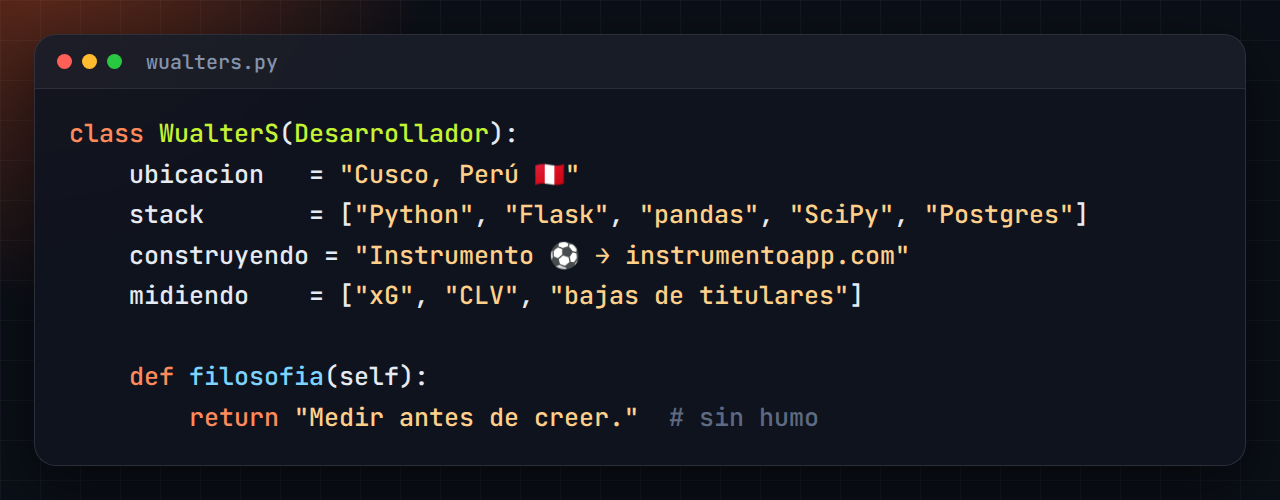
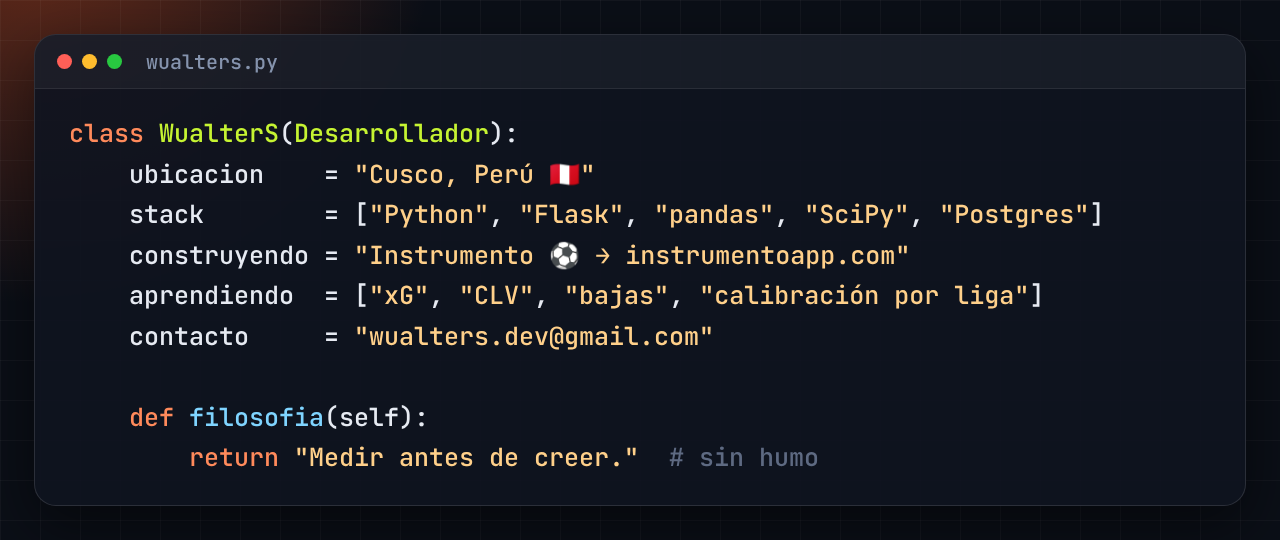
Perfil: auto-mejora, rutina diaria de la app, contacto y números al día (#8)
* Perfil: auto-mejora, rutina diaria de la app, contacto y números al día

El perfil decía que el xG, el CLV y las bajas se estaban midiendo, pero
ya los aplica la auto-mejora semanal; faltaba una forma de contacto y el
botón final llevaba al mismo perfil. Se suma la sección «Lo que la app
hace sola cada día», la vuelta de la auto-mejora en el diagrama, el
correo de desarrollador y los números actuales (~770 pruebas, ~31 000
líneas de Python). Banner y tarjeta de código regenerados con img/generar.py.

Claude-Session: https://claude.ai/code/session_01LgRPHN13sL2dVtw1KBWnaM

* Perfil: 28 competiciones activas, como muestra Panel → Ligas

Claude-Session: https://claude.ai/code/session_01LgRPHN13sL2dVtw1KBWnaM

---------

diff --git a/img/generar.py b/img/generar.py
@@ -25,6 +25,7 @@ FRASES = [
     "⚽ Modelos estadísticos de fútbol",
     "🐍 Python + Flask en producción",
     "📊 Datos que se validan contra el mercado",
+    "🔁 Un modelo que se mejora solo",
     "🤖 Automatización y bots",
 ]
 
@@ -75,10 +76,11 @@ CODIGO = """<div class=g1 style="left:-420px;top:-560px"></div><div class=grid><
   </div>
   <pre style="font-family:Mono;font-size:25px;line-height:1.62;padding:24px 34px;color:#E6EAF2">\
 <b class=k>class</b> <b class=c>WualterS</b>(<b class=c>Desarrollador</b>):
-    <i class=a>ubicacion</i>   = <s>"Cusco, Perú 🇵🇪"</s>
-    <i class=a>stack</i>       = [<s>"Python"</s>, <s>"Flask"</s>, <s>"pandas"</s>, <s>"SciPy"</s>, <s>"Postgres"</s>]
+    <i class=a>ubicacion</i>    = <s>"Cusco, Perú 🇵🇪"</s>
+    <i class=a>stack</i>        = [<s>"Python"</s>, <s>"Flask"</s>, <s>"pandas"</s>, <s>"SciPy"</s>, <s>"Postgres"</s>]
     <i class=a>construyendo</i> = <s>"Instrumento ⚽ → instrumentoapp.com"</s>
-    <i class=a>midiendo</i>    = [<s>"xG"</s>, <s>"CLV"</s>, <s>"bajas de titulares"</s>]
+    <i class=a>aprendiendo</i>  = [<s>"xG"</s>, <s>"CLV"</s>, <s>"bajas"</s>, <s>"calibración por liga"</s>]
+    <i class=a>contacto</i>     = <s>"wualters.dev@gmail.com"</s>
 
     <b class=k>def</b> <b class=f>filosofia</b>(<i class=a>self</i>):
         <b class=k>return</b> <s>"Medir antes de creer."</s>  <u># sin humo</u></pre>
@@ -142,7 +144,7 @@ def main():
     with sync_playwright() as p:
         b = p.chromium.launch()
         banner(b, css)
-        for nombre, cuerpo, ancho, alto in (("codigo", CODIGO, 1280, 500), ("umapyoi", UMAPYOI, 1600, 420)):
+        for nombre, cuerpo, ancho, alto in (("codigo", CODIGO, 1280, 540), ("umapyoi", UMAPYOI, 1600, 420)):
             pg = _pagina(b, css, cuerpo, ancho, alto)
             pg.screenshot(path=str(IMG / f"{nombre}.png"))
             pg.close()

diff --git a/README.md b/README.md
@@ -9,6 +9,7 @@
 <p align="center">
   <a href="#-proyectos"><img src="https://img.shields.io/badge/Proyectos-FF5A1F?style=for-the-badge&labelColor=0F1420" alt="Proyectos"/></a>
   <a href="#-stack"><img src="https://img.shields.io/badge/Stack-8593AD?style=for-the-badge&labelColor=0F1420" alt="Stack"/></a>
+  <a href="#-contacto"><img src="https://img.shields.io/badge/Contacto-C6F432?style=for-the-badge&labelColor=0F1420" alt="Contacto"/></a>
   <a href="#-english"><img src="https://img.shields.io/badge/🇺🇸_English-4CAF50?style=for-the-badge&labelColor=0F1420" alt="English"/></a>
 </p>
 
@@ -20,7 +21,7 @@
 - 📐 Me interesa el **modelado estadístico aplicado**: Dixon-Coles, Binomial Negativa, cópulas, calibración y backtesting.
 - 🚀 Me gusta llevar las cosas **a producción**: despliegue en Render, base en Postgres, CI con GitHub Actions y pruebas de interfaz con Playwright.
 - 🤖 Empecé automatizando tareas repetitivas con **visión por computadora y OCR** (ver Umapyoi AutoReroll).
-- 🔭 Ahora mismo: midiendo con datos reales si el xG, el CLV y las bajas de titulares mejoran los pronósticos.
+- 🔁 Ahora mismo: un modelo que **se mejora solo cada semana** y aplica un cambio únicamente si gana contra el actual con partidos ya jugados.
 - 🎮 Fuera del código: videojuegos y mucha música.
 
 <img src="img/codigo.png" alt="class WualterS(Desarrollador)" width="100%"/>
@@ -60,18 +61,19 @@
 |---|---|
 | 📈 **Modelos** | Dixon-Coles para goles (con altitud, lesiones y descanso) · Binomial Negativa para 28 estadísticas (córners, tarjetas, tiros…) · cópula gaussiana para combinadas |
 | ✅ **Validación** | Backtest contra el mercado, calibración y control de falsos descubrimientos (FDR): cada mercado lleva su sello — *ok*, *ajustado* o *ruido* |
-| 🗂 **Datos** | Ingesta automática de 16 ligas + copas, planteles y mercados de jugador con incertidumbre de minutos |
-| 🧠 **Contra el mercado** | Aprende del xG (goles esperados), mide el CLV de cada pick contra la cuota de cierre y si las bajas de titulares pesan más de lo que el modelo ya espera |
+| 🗂 **Datos** | Ingesta automática de 28 competiciones (ligas de 9 países, copas y selecciones), planteles y mercados de jugador con incertidumbre de minutos |
+| 🧠 **Contra el mercado** | Aprende del xG (goles esperados), mide el CLV de cada pick contra la cuota de cierre, calibra el 1X2 por liga y descuenta las bajas de titulares |
+| 🔁 **Auto-mejora** | Cada semana prueba 7 ajustes del modelo contra partidos pasados (walk-forward) y aplica solo los que ganan claro; los picks de una liga que fallan se apagan solos |
 | 📱 **Producto** | PWA instalable, picks del día, en vivo con gráfico de presión, combinadas, «¿Cuánto meter?» con el bank del usuario (Kelly fraccionado), registro con yield y calibración, notificaciones push propias (Web Push + VAPID) y referidos |
 | 💳 **Negocio** | Plan gratis / Pro controlado en el servidor, cobro por Yape o Plin y Libro de Reclamaciones virtual |
-| 🛡 **Calidad** | ~600 pruebas (pytest + Playwright con pantallas reales) en cada PR, ruff, arquitectura por capas vigilada por una prueba, hilos de fondo con semáforo de salud y avisos por Telegram |
+| 🛡 **Calidad** | ~770 pruebas (pytest + Playwright con pantallas reales) en cada PR, ruff, arquitectura por capas vigilada por una prueba, hilos de fondo con semáforo de salud y avisos por Telegram |
 
 <img src="img/pantallas.png" alt="Pantallas: Hoy, Partidos, Análisis, En vivo, Combinar y Registro" width="100%"/>
 
 <table>
   <tr>
-    <td align="center" width="25%"><h3>~600</h3><sub>pruebas automáticas en cada cambio</sub></td>
-    <td align="center" width="25%"><h3>16 + copas</h3><sub>ligas con datos propios</sub></td>
+    <td align="center" width="25%"><h3>~770</h3><sub>pruebas automáticas en cada cambio</sub></td>
+    <td align="center" width="25%"><h3>28</h3><sub>ligas, copas y selecciones con datos propios</sub></td>
     <td align="center" width="25%"><h3>28</h3><sub>estadísticas por partido modeladas</sub></td>
     <td align="center" width="25%"><h3>100%</h3><sub>de los picks guardados antes del partido</sub></td>
   </tr>
@@ -93,15 +95,37 @@ flowchart LR
     F --> G[Backtest y<br>calibración]
     G --> H[Pick guardado<br>ANTES del partido]
     H --> I["/aciertos y CLV<br>contra el cierre"]
+    I -. cada semana .-> J{{Auto-mejora<br>¿gana el cambio?}}
+    J -. sí .-> C
 ```
 
 - Todo sale de una sola matriz de marcadores: quién gana, goles y ambos marcan nunca se contradicen.
 - Walk-forward: entrena con el pasado, predice lo siguiente y avanza; un mercado que no supera el control de falsos descubrimientos se marca como *ruido*.
 - El historial público no se recalcula: lo que se ve es lo que el modelo dijo antes de cada partido.
+- La auto-mejora solo cambia algo si gana con partidos que el modelo todavía no había visto; si no, todo queda como está.
 
 </details>
 
-<sub>~26 000 líneas de Python · ~9 000 de JavaScript sin frameworks · código privado · 🔗 <a href="https://instrumentoapp.com">instrumentoapp.com</a></sub>
+<details>
+<summary><b>⏰ Lo que la app hace sola cada día</b></summary>
+
+<br>
+
+| Hora (Lima) | Qué pasa |
+|---|---|
+| 🌙 1:00 · cada 7 días | **Auto-mejora** semanal del modelo: prueba, compara y aplica solo lo que gana |
+| 💾 4:00 | Respaldo diario de cuentas, picks e historial |
+| 🧮 5:00 | Reentrena con los resultados nuevos |
+| ☀ Mañana | Arma las **combinadas del día** (del día, alta y bomba) y publica los picks en el canal de Telegram |
+| 📡 Durante el partido | Sigue cada partido en vivo cada 3 min: presión, goles y avisos push |
+| 🏁 Al terminar cada partido | Cierra los picks con el marcador y las estadísticas finales; en la noche el canal cuenta cómo salieron |
+| 📬 Lunes 10:00 | «Tu semana» a cada usuario y un reporte al dueño |
+
+<sub>Hilos de fondo con latido propio: si uno se cae o la memoria sube, llega un aviso por Telegram.</sub>
+
+</details>
+
+<sub>~31 000 líneas de Python · ~10 000 de JavaScript sin frameworks · código privado · 🔗 <a href="https://instrumentoapp.com">instrumentoapp.com</a></sub>
 
 <br>
 
@@ -163,15 +187,27 @@ Bot de escritorio que automatiza el reroll del juego: acepta términos, crea el 
 
 ---
 
+<a name="-contacto"></a>
+## 📬 Contacto
+
+¿Un proyecto con datos, un modelo que hay que llevar a producción o una automatización? Escríbeme.
+
+<p>
+  <a href="mailto:wualters.dev@gmail.com"><img src="https://img.shields.io/badge/wualters.dev@gmail.com-EA4335?style=for-the-badge&logo=gmail&logoColor=white&labelColor=0F1420" alt="Correo"/></a>
+  <a href="https://instrumentoapp.com"><img src="https://img.shields.io/badge/instrumentoapp.com-C6F432?style=for-the-badge&logo=googlechrome&logoColor=0F1420&labelColor=0F1420" alt="Instrumento"/></a>
+</p>
+
+---
+
 <a name="-english"></a>
 <details>
 <summary><b>🇺🇸 English</b></summary>
 
 <br>
 
-**Python developer from Cusco, Peru.** I build complete products: from the statistical model to the server, the UI, the tests and the billing.
+**Python developer from Cusco, Peru.** I build complete products: from the statistical model to the server, the UI, the tests and the billing. Reach me at **[wualters.dev@gmail.com](mailto:wualters.dev@gmail.com)**.
 
-**⚽ Instrumento** — a football analytics web app that prices hundreds of markets per match with real statistical models (Dixon-Coles for goals, Negative Binomial for 28 match stats, a Gaussian copula for accumulators), backtests them against bookmaker odds, measures closing-line value, and tracks calibration and yield for every saved pick — with a public, verifiable track record. Built with Flask, pandas and SciPy, persisted in PostgreSQL (Neon), deployed on Render as an installable PWA, with a Free/Pro plan and CI running pytest + Playwright on every PR. **[Try it live →](https://instrumentoapp.com)**
+**⚽ Instrumento** — a football analytics web app that prices hundreds of markets per match with real statistical models (Dixon-Coles for goals, Negative Binomial for 28 match stats, a Gaussian copula for accumulators), backtests them against bookmaker odds, measures closing-line value, retrains itself daily and runs a weekly self-improvement loop that only ships changes that beat the current model on unseen matches, and tracks calibration and yield for every saved pick — with a public, verifiable track record. Built with Flask, pandas and SciPy, persisted in PostgreSQL (Neon), deployed on Render as an installable PWA, with a Free/Pro plan and CI running pytest + Playwright on every PR. **[Try it live →](https://instrumentoapp.com)**
 
 **🏇 Umapyoi AutoReroll** — a desktop bot that automates rerolling in Umamusume Global using OpenCV and Tesseract OCR to detect target SSR cards, with Discord webhook notifications and an English/Spanish UI.
 
@@ -180,9 +216,5 @@ Bot de escritorio que automatiza el reroll del juego: acepta términos, crea el 
 ---
 
 <div align="center">
-  <a href="https://github.com/WualterSDEV">
-    <img src="https://img.shields.io/badge/GitHub-WualterSDEV-100000?style=for-the-badge&logo=github&logoColor=white" alt="GitHub"/>
-  </a>
-  <br><br>
   <img src="https://komarev.com/ghpvc/?username=WualterSDEV&style=for-the-badge&color=FF5A1F" alt="Visitas al perfil"/>
 </div>
